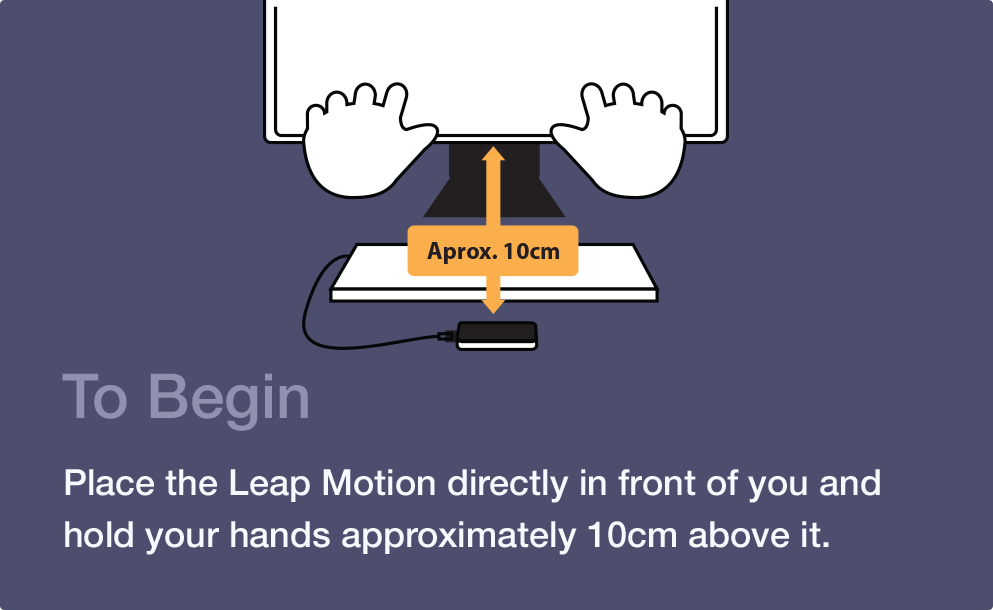
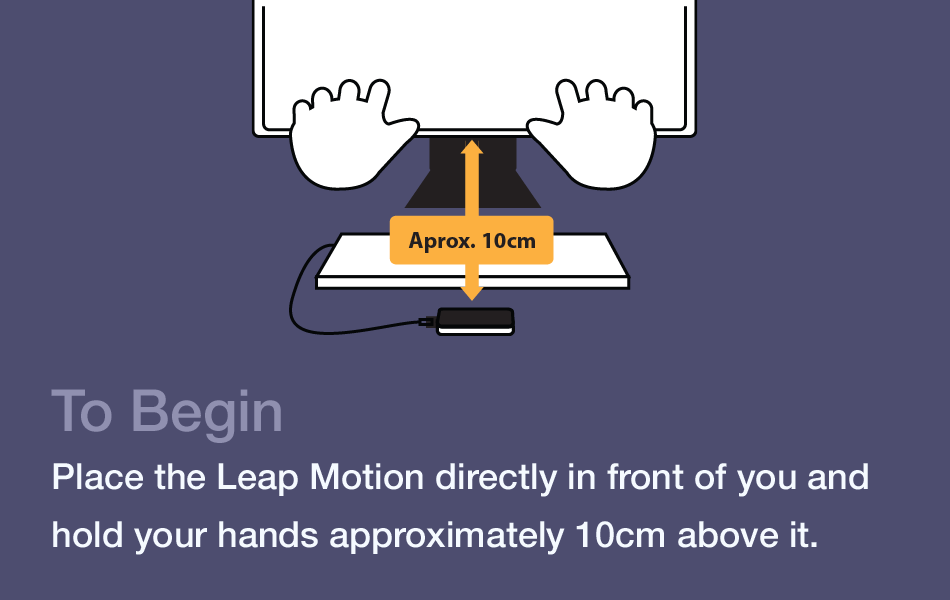
updated tutorial cards

diff --git a/leapsynth/TutorialBox.m b/leapsynth/TutorialBox.m
@@ -155,26 +155,26 @@
             break;
             
         case 6: //lfo
-            [self setFrame:NSMakeRect(60,550,425,169)];
-            [_backgroundImage setFrame:NSMakeRect(0,0,425,169)];
+            [self setFrame:NSMakeRect(60,550,395,127)];
+            [_backgroundImage setFrame:NSMakeRect(0,0,395,127)];
             [_backgroundImage setImage:[NSImage imageNamed:@"CARD5"]];
             break;
             
         case 7: //osc
-            [self setFrame:NSMakeRect(75,440,425,138)];
-            [_backgroundImage setFrame:NSMakeRect(0,0,425,138)];
+            [self setFrame:NSMakeRect(75,440,395,113)];
+            [_backgroundImage setFrame:NSMakeRect(0,0,395,113)];
             [_backgroundImage setImage:[NSImage imageNamed:@"CARD6"]];
             break;
             
         case 8: // noise
-            [self setFrame:NSMakeRect(250,550,425,143)];
-            [_backgroundImage setFrame:NSMakeRect(0,0,425,143)];
+            [self setFrame:NSMakeRect(250,550,395,110)];
+            [_backgroundImage setFrame:NSMakeRect(0,0,395,110)];
             [_backgroundImage setImage:[NSImage imageNamed:@"CARD7"]];
             break;
             
         case 9: // adsr
-            [self setFrame:NSMakeRect(250,330,425,170)];
-            [_backgroundImage setFrame:NSMakeRect(0,0,425,170)];
+            [self setFrame:NSMakeRect(250,330,395,139)];
+            [_backgroundImage setFrame:NSMakeRect(0,0,395,139)];
             [_backgroundImage setImage:[NSImage imageNamed:@"CARD8"]];
             break;
 
@@ -183,17 +183,17 @@
                 [_delegate switchToTheremin:self];
             }
 
-            [self setFrame:NSMakeRect(120,60,425,120)];
-            [_backgroundImage setFrame:NSMakeRect(0,0,425,120)];
+            [self setFrame:NSMakeRect(120,60,327,96)];
+            [_backgroundImage setFrame:NSMakeRect(0,0,327,96)];
             [_backgroundImage setImage:[NSImage imageNamed:@"CARD9"]];
             break;
             
         case 11:
-            [self setFrameSize:NSMakeSize(355,112)];
+            [self setFrameSize:NSMakeSize(452,189)];
             [self setFrameOrigin:NSMakePoint(superBounds.size.width/2 - [self bounds].size.width/2,
                                              superBounds.size.height/2 - [self bounds].size.height/2)];
             
-            [_backgroundImage setFrame:NSMakeRect(0,0,355,112)];
+            [_backgroundImage setFrame:NSMakeRect(0,0,452,189)];
             [_backgroundImage setImage:[NSImage imageNamed:@"CARD10"]];
             break;
 
